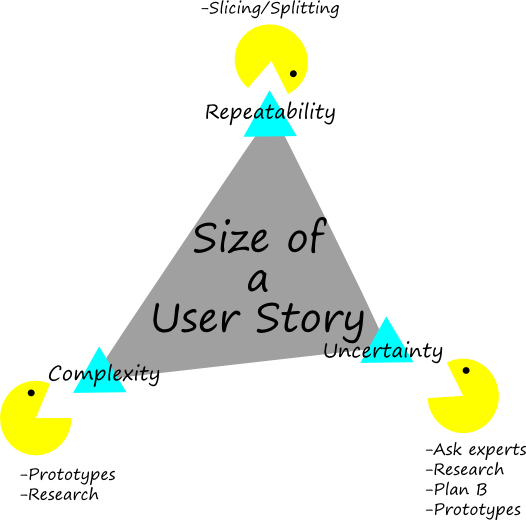
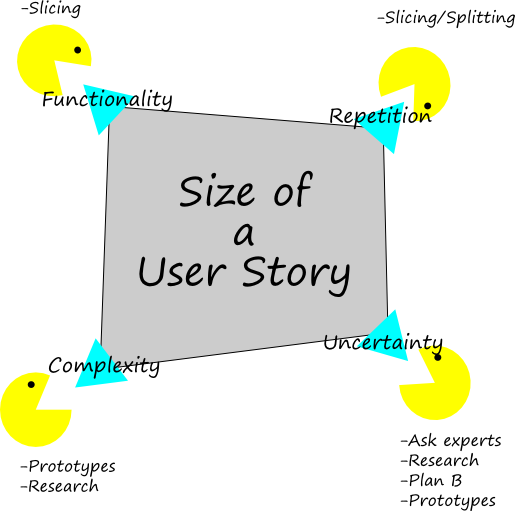
More stuff on US size

diff --git a/UserStorySize.html b/UserStorySize.html
@@ -35,12 +35,32 @@
 
       <div>
 		<h1>Reducing the size of a User Story to fit in a sprint</h1>
-		<p>v0.1</p>
-
+		<p>v0.2</p>
+		<h2>Motivation</h2>
+			<p>User Stories should be small enough to fit easily into one Sprint. The better their rank in the Product Backlog the smaller they should be. The standard approach would be to split the User Story in vertical slices. If this is not possible or not enough other techniques need to be used.
+<h2>A warning</h2>
+<p>Estimates should not be the goal as in most cases they do not add value. Although making estimates will positively impact discussions regarding an User Story. The goal of this reducing techniques is the same: <i>Encourage discussions and a little bit of risk management.</i>
 		<h2>Concept</h2>
         <p><img src="images/SizeOfUS.png" alt="Concept for  Reducing the size of a User Story to fit in an iteration" />
 
         </p>
+<h2>What defines the size of a User Story?</h2>
+<p>I really like the size defintion by <a href="https://www.goodreads.com/book/show/16269900-scrum-shortcuts-without-cutting-corners?ac=1">Ian Goldstein</a>. I have swapped the Risk component with Uncertainty as this seems to be better understandable when teaching. The following three dimensions compose the size of a User Story:
+<ul>
+	<li>Functionality: The amount of user functionality covered.</li>
+	<li>Repetition: The amount of similar work to do e.g. refactoring one class has a smaller size tha refactoring 100 classes (in general)</li>
+<li>Complexity: The difficulty level of the work e.g. optimizing a complex ranking algorithm is bigger than implementing simple Bubble Sort.</li>
+<li>Uncertainty: The amount of certainty that everything goes "according to plan" e.g. using an unknown library for implementing a User Story might not work out as expected and thus takes longer to implement and test.</li>
+</ul> 
+<h2>Resizing techniques for each dimension</h2>
+Some techniques acknowledge that there are times when it is not (easily) possible to deliver the customer value of a User Story in one Sprint. Especially when working with legacy applications this can occur. The best thing would be to recognize this problem and adress it. Sometimes this is not desireable e.g. team has other problems than this and cannot do even more improvements at the same time. Nevertheless the problem should be acknowledged and be planned in with the following thought in mind: "We have a problem there and we are doing ... <strong> for now</strong> to adress it."
+<h3>Functionality</h3>
+<p>Apply here the classical vertical slicing techniques. There are numerous good books and articels on this. Keep in mind that this is the only dimension which may really reduce the amount of Story Points of a User Story.  
+ <h3>Repetition</h3>
+<p>Let's suppose it is needed to refactor 100 similar classes and this is simply to big to be achievable in one Sprint. The following techniques might help in this case:
+<ul>
+	<li>Slice it user components (vertically): Vertical slices should also have an impact on the touched classes.  If 100 classes are representing 4 related but different workflows you might get 4 User Stories out of it. This is the optimal solution as you will deliver real value at the end of the Sprint. </li>
+<li>Slice it by technical components: Especially in legacy applications the architecture of the app cannot keep up with the fast delivery mechanism of Agile development. In that case the architecture is not emerged and thus it is difficult to make a big impact by vertical slicing. Try slicing it by technical component e.g. the 100 classes are distributed over 6 assemblies. So you can make 6 "technical" User Stories - one for each assembly. It is not optimal but at least you have a checkpoint after one Sprint.
       </div>
         <span id="feedback"></span>
         <script type="text/javascript" src="includes/feedback.js"></script>

diff --git a/index.html b/index.html
@@ -62,7 +62,7 @@
 				</tr>
                 <tr>
                     <td></td>
-                    <td><a href="UserStorySize.html">Reducing the size of a User Story to fit in an iteration</a> v0.1</td>
+                    <td><a href="UserStorySize.html">Reducing the size of a User Story to fit in an iteration</a> v0.2</td>
                     <td></td>
                 </tr>
                 <tr>
